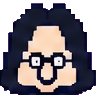
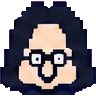
fix(sprites): 형섭 입선을 제거하고 걷기 정렬과 재생을 교정
원본 입선 261픽셀만 피부로 복원하고 방향별 공통 크롭과 샘플링 격자로 머리 흔들림 및 신발 잘림을 방지한다. 형섭 좌우 프레임을 중립과 보폭이 번갈아 오도록 재생하고, 속도 전환의 위상 및 충돌 후 실제 이동 여부를 보존한다.

Constraint: 코·안경·턱·기존 색감과 캐릭터 배율 및 이동 속도 보존
Confidence: high
Scope-risk: moderate
Not-tested: 구형 smoke.mjs의 삭제된 merchant/house 참조는 기존 문제로 유지

diff --git a/src/world/world.js b/src/world/world.js
@@ -112,9 +112,10 @@ export function characterSprite(paletteName, override = null) {
     set.fw = fw; set.fh = fh; set.px = RENDER_SCALE;   // assets/sprites 시트는 2x 해상도
     const rows = ['down', 'up', 'left', 'right'];
     rows.forEach((dir, r) => {
+      const order = CHARACTERS[paletteName]?.walkFrameOrder?.[dir] || [0, 1, 2, 3];
       for (let f = 0; f < 4; f++) {
         const c = makeCanvas(fw, fh);
-        c.getContext('2d').drawImage(override, f * fw, r * fh, fw, fh, 0, 0, fw, fh);
+        c.getContext('2d').drawImage(override, order[f] * fw, r * fh, fw, fh, 0, 0, fw, fh);
         set[dir].push(c);
       }
     });
@@ -173,14 +174,14 @@ export class Character extends Entity {
     super(def, game);
     this.sprite = characterSprite(def.sprite || 'hero', game.spriteOverrides[def.sprite]);
     this.frame = 0;
-    this.animTime = 0;
+    this.animPhase = 0;
     this.moving = false;
     this.speed = def.speed ?? TILE * 3.8;
   }
   animate(dt, fps = 8) {
-    if (!this.moving) { this.frame = 0; this.animTime = 0; return; }
-    this.animTime += dt;
-    this.frame = Math.floor(this.animTime * fps) % 4;
+    if (!this.moving) { this.frame = 0; this.animPhase = 0; return; }
+    this.animPhase += dt * fps;
+    this.frame = Math.floor(this.animPhase) % 4;
   }
   /** 축별 이동 + 타일/엔티티 충돌 */
   moveBy(dx, dy) {
@@ -230,9 +231,9 @@ export class Player extends Character {
     this.lastMove = 0;
   }
   update(dt, input) {
+    const startX = this.x, startY = this.y;
     const a = input.axis();
-    this.moving = a.x !== 0 || a.y !== 0;
-    if (this.moving) {
+    if (a.x !== 0 || a.y !== 0) {
       if (a.x) this.facing = a.x > 0 ? 'right' : 'left';
       if (a.y && !a.x) this.facing = a.y > 0 ? 'down' : 'up';
       const run = input.down('cancel') ? this.slowMul : 1;
@@ -241,6 +242,7 @@ export class Player extends Character {
       // 소수점 누적 이동 (도트 튐 방지: 렌더 시 round)
       this.moveBy((a.x / len) * step, (a.y / len) * step);
     }
+    this.moving = this.x !== startX || this.y !== startY;
     this.animate(dt, input.down('cancel') ? 8 : 12);
 
     // 밟는 트리거
@@ -269,6 +271,7 @@ export class NPC extends Character {
   }
   update(dt) {
     if (this.game.dialogue.running) { this.moving = false; this.animate(dt); return; }
+    const startX = this.x, startY = this.y;
     if (this.wander > 0) {
       this.wanderTimer -= dt;
       if (this.wanderTimer <= 0) {
@@ -287,6 +290,7 @@ export class NPC extends Character {
         else { this.moveBy(this.dir.x * sp * dt, this.dir.y * sp * dt); }
       }
     }
+    this.moving = this.x !== startX || this.y !== startY;
     this.animate(dt, 6);
   }
   interact(player) {

diff --git a/src/data/characters.js b/src/data/characters.js
@@ -5,7 +5,8 @@
 // portraitThreshold: 대화창 초상화(흰/검 2톤 변환, gfx.monoPortrait)에서 이 밝기 미만을 검정으로. 기본 0.38.
 // ─────────────────────────────────────────────────────────────
 export const CHARACTERS = {
-  hyungsub:  { name: '형섭', voice: 'narrator', palette: 'hero', self: true },   // 주인공 = 나 자신: 대사는 이름/초상화 없이 나레이션처럼
+  hyungsub:  { name: '형섭', voice: 'narrator', palette: 'hero', self: true,
+    walkFrameOrder: { left: [0, 1, 3, 2], right: [0, 1, 3, 2] } },
   gyeongsub: { name: '경섭', voice: 'gyeongsub', palette: 'guard' },
   ppaman:    { name: '빠맨', voice: 'ppaman',  palette: 'cat', portraitThreshold: 0.3 },     // 파란 털(밝기 0.45)은 흰색으로 남겨야 해서 낮게
   junhee:    { name: '쥰희', voice: 'junhee',  palette: 'merchant', portraitThreshold: 0.6 },   // 돼지. 분홍 피부(0.85)만 흰색, 이목구비(≤0.6)는 검정. 웃음소리 sfx: laugh_junhee

diff --git a/tests/sprites/test_slice_sheet.py b/tests/sprites/test_slice_sheet.py
@@ -8,7 +8,18 @@ from PIL import Image
 
 ROOT = Path(__file__).resolve().parents[2]
 sys.path.insert(0, str(ROOT))
-from tools.sprites.slice_sheet import EDGE_TRIM, detect_grid, key_cell, make_portrait, process_cell
+from tools.sprites.slice_sheet import align_frames, detect_grid, key_cell, make_portrait, process_cell
+
+
+def test_background_key_preserves_character_pixels_at_cell_bottom_edge() -> None:
+    cell = np.full((80, 80, 3), (180, 120, 210), dtype=np.int64)
+    cell[20:80, 20:60] = (20, 20, 30)
+
+    result = np.asarray(key_cell(cell))
+
+    assert result.shape[:2] == cell.shape[:2]
+    assert np.all(result[-4:, 20:60, 3] == 255)
+    assert np.array_equal(result[-4:, 20:60, :3], cell[-4:, 20:60])
 
 
 def test_background_key_preserves_outline_and_enclosed_background_color() -> None:
@@ -17,7 +28,7 @@ def test_background_key_preserves_outline_and_enclosed_background_color() -> Non
     cell[22:58, 22:58] = (180, 120, 210)
     result = np.asarray(key_cell(cell))
     assert result[0, 0, 3] == 0
-    assert np.all(result[16:56, 16:56, 3] == 255)
+    assert np.all(result[20:60, 20:60, 3] == 255)
     assert tuple(result[30, 30, :3]) == (180, 120, 210)
 
 
@@ -29,9 +40,8 @@ def test_source_front_frame_keeps_dark_outline(column: int) -> None:
     x0, x1 = columns[column]
     y0, y1 = rows[0]
     cell = source[y0:y1, x0:x1]
-    trimmed = cell[EDGE_TRIM:-EDGE_TRIM, EDGE_TRIM:-EDGE_TRIM]
     result = np.asarray(key_cell(cell))
-    assert np.all(result[..., 3][trimmed.max(axis=2) < 60] == 255)
+    assert np.all(result[..., 3][cell.max(axis=2) < 60] == 255)
 
 
 def test_import_resampling_keeps_original_colors() -> None:
@@ -40,18 +50,47 @@ def test_import_resampling_keeps_original_colors() -> None:
     cell[22:58, 22:58] = (255, 230, 205)
     cell[23:57:2, 23:57:2] = (45, 70, 95)
     colors = set(map(tuple, cell.reshape(-1, 3)))
-    for image in (process_cell(cell, 32, 32, 0.5), make_portrait(cell)):
+    crop = align_frames([key_cell(cell)], 2)[0]
+    for image in (process_cell(crop, (32, 32), 0.5), make_portrait(cell)):
         pixels = np.asarray(image)
         assert set(map(tuple, pixels[..., :3][pixels[..., 3] == 255])) <= colors
 
 
 def test_background_key_removes_purple_fringe_without_eroding_blue_outline() -> None:
     cell = np.full((80, 80, 3), (191, 131, 248), dtype=np.int64)
+    cell[0, 0] = (140, 85, 159)
     cell[19:61, 19:61] = (150, 100, 210)
     cell[20:60, 20:60] = (60, 70, 170)
     result = np.asarray(key_cell(cell))
-    assert result[15, 20, 3] == 0
-    assert np.all(result[16:56, 16:56, 3] == 255)
+    assert result[0, 0, 3] == 0
+    assert result[19, 24, 3] == 0
+    assert np.all(result[20:60, 20:60, 3] == 255)
+
+
+def test_cli_hyungsub_left_walk_preserves_constant_source_head_height(tmp_path: Path) -> None:
+    source_path = ROOT / 'assets/source/sheet_hyungsub_gyeongsub_ppaman.png'
+    with Image.open(source_path) as image:
+        source = np.asarray(image.convert('RGB')).astype(np.int64)
+    columns, rows = detect_grid(source)
+    y0, y1 = rows[1]
+    source_tops: list[int] = []
+    for x0, x1 in columns[:4]:
+        bounds = key_cell(source[y0:y1, x0:x1]).getbbox()
+        assert bounds is not None
+        source_tops.append(bounds[1])
+    assert source_tops == [26, 26, 26, 26]
+
+    _ = subprocess.run([sys.executable, str(ROOT / 'tools/sprites/slice_sheet.py'), str(source_path),
+                        'hyungsub', 'gyeongsub', 'ppaman'], cwd=tmp_path, capture_output=True, check=True)
+
+    with Image.open(tmp_path / 'assets/sprites/hyungsub.png') as sheet:
+        fw, fh = sheet.width // 4, sheet.height // 4
+        output_tops: list[int] = []
+        for frame in range(4):
+            bounds = sheet.crop((frame * fw, 2 * fh, (frame + 1) * fw, 3 * fh)).getbbox()
+            assert bounds is not None
+            output_tops.append(bounds[1])
+    assert len(set(output_tops)) == 1, f'fixed source head height became {output_tops}'
 
 
 @pytest.mark.parametrize(('source_name', 'ids'), [
@@ -73,14 +112,15 @@ def test_cli_source_sheets_produce_complete_engine_frames(tmp_path: Path, source
             fw, fh = sheet.width // 4, sheet.height // 4
             for output_row, input_row in enumerate((0, 3, 1, 2)):
                 frames = []
+                y0, y1 = rows[input_row]
+                cells = [source[y0:y1, x0:x1] for x0, x1 in columns[index * 4:(index + 1) * 4]]
+                downsample = max(1, round((rows[0][1] - rows[0][0]) / 100))
+                crops = align_frames([key_cell(cell) for cell in cells], downsample)
                 for frame in range(4):
                     actual = sheet.crop((frame * fw, output_row * fh, (frame + 1) * fw, (output_row + 1) * fh))
                     assert actual.getbbox() is not None
-                    x0, x1 = columns[index * 4 + frame]
-                    y0, y1 = rows[input_row]
-                    cell = source[y0:y1, x0:x1]
-                    scale = 1 / max(1, round((rows[0][1] - rows[0][0]) / 100))
-                    expected = process_cell(cell, fw, fh, scale)
+                    cell = cells[frame]
+                    expected = process_cell(crops[frame], (fw, fh), 1 / downsample)
                     assert actual.tobytes() == expected.tobytes()
                     pixels = np.asarray(actual)
                     assert set(np.unique(pixels[..., 3])) <= {0, 255}

diff --git a/tools/sprites/slice_sheet.py b/tools/sprites/slice_sheet.py
@@ -38,17 +38,13 @@ def detect_grid(im):
     return cols, rows
 
 
-EDGE_TRIM = 4            # 셀 테두리 잔선 제거(px)
-
-
 def key_cell(cell: npt.NDArray[np.int64]) -> Image.Image:
     """가장자리에 연결된 배경만 제거하고 내부 색과 외곽선은 보존한다."""
-    cell = cell[EDGE_TRIM:-EDGE_TRIM, EDGE_TRIM:-EDGE_TRIM]
     edge = np.concatenate([cell[2:14, 2:14].reshape(-1, 3), cell[-14:-2, 2:14].reshape(-1, 3),
                            cell[2:14, -14:-2].reshape(-1, 3), cell[-14:-2, -14:-2].reshape(-1, 3)])
     bg = np.median(edge, 0)
     d = np.abs(cell - bg).sum(2)
-    purple_fringe = (cell[..., 0] > cell[..., 1] + 20) & (cell[..., 2] > cell[..., 0] + 20) & (d <= 240)
+    purple_fringe = (cell[..., 0] > cell[..., 1] + 20) & (cell[..., 2] > cell[..., 0] + 10) & (d <= 240)
     background = (d <= 90) | purple_fringe
     height, width = background.shape
     alpha = np.ones((height, width), dtype=np.bool_)
@@ -84,22 +80,26 @@ def quantize_to_palette(img, palette_img, n=None):
     return Image.fromarray(out, 'RGBA')
 
 
-def char_crop(cell_rgb):
-    rgba = key_cell(cell_rgb)
-    a = np.array(rgba)[..., 3]
-    ys, xs = np.where(a > 127)
-    if len(xs) == 0: return None
-    return rgba.crop((int(xs.min()), int(ys.min()), int(xs.max()) + 1, int(ys.max()) + 1))
+def align_frames(frames: list[Image.Image], downsample: int) -> list[Image.Image]:
+    """방향별 공통 영역을 정수 축소 격자에 맞춰 잘라 프레임 기준점을 보존한다."""
+    bounds = [box for frame in frames if (box := frame.getbbox()) is not None]
+    if not bounds:
+        return [Image.new('RGBA', (downsample, downsample)) for _ in frames]
+    left = min(box[0] for box in bounds) // downsample * downsample
+    top = min(box[1] for box in bounds) // downsample * downsample
+    right = (max(box[2] for box in bounds) + downsample - 1) // downsample * downsample
+    bottom = (max(box[3] for box in bounds) + downsample - 1) // downsample * downsample
+    return [frame.crop((left, top, right, bottom)) for frame in frames]
 
 
-def process_cell(cell_rgb, FW, FH, scale):
-    crop = char_crop(cell_rgb)
-    if crop is None: return Image.new('RGBA', (FW, FH))
+def process_cell(crop: Image.Image, frame_size: tuple[int, int], scale: float) -> Image.Image:
+    """공통 영역에서 자른 RGBA 프레임을 같은 격자로 축소하고 하단 중앙에 놓는다."""
+    fw, fh = frame_size
     w = max(1, round(crop.width * scale)); h = max(1, round(crop.height * scale))
     small = crop.resize((w, h), Image.Resampling.NEAREST)  # 원본 도트 색을 평균내지 않는다
     a = np.array(small); a[..., 3] = np.where(a[..., 3] > 127, 255, 0); small = Image.fromarray(a, 'RGBA')
-    frame = Image.new('RGBA', (FW, FH))
-    frame.paste(small, ((FW - w) // 2, FH - h), small)
+    frame = Image.new('RGBA', frame_size)
+    frame.paste(small, ((fw - w) // 2, fh - h), small)
     return frame
 
 
@@ -118,7 +118,7 @@ def make_portrait(cell_rgb, size=96, head_ratio=0.56):
     return out
 
 
-def main():
+def main() -> None:
     src, ids = sys.argv[1], sys.argv[2:]
     img = Image.open(src).convert('RGB')
     im = np.array(img).astype(int)
@@ -128,24 +128,26 @@ def main():
     print(f'grid: {len(cols)} cols x {len(rows)} rows')
     import os; os.makedirs('assets/sprites', exist_ok=True); os.makedirs('assets/portraits', exist_ok=True)
     for ci, cid in enumerate(ids):
-        # 캐릭터 전체 16셀의 최대 높이 기준으로 스케일 하나를 정한다 (프레임끼리 크기 튐 방지)
-        crops = {}
+        cell_h = rows[0][1] - rows[0][0]
+        downsample = max(1, round(cell_h / CELL_TARGET_H))
+        scale = 1.0 / downsample
+        # 방향별 네 프레임은 같은 원본 영역과 축소 격자를 쓰고, 출력 크기는 16셀 전체에 맞춘다.
+        crops: dict[int, list[Image.Image]] = {}
         for ri in range(4):
+            frames: list[Image.Image] = []
             for f in range(4):
                 x0, x1 = cols[ci * 4 + f]; y0, y1 = rows[ri]
-                crops[(ri, f)] = char_crop(im[y0:y1, x0:x1])
-        cell_h = rows[0][1] - rows[0][0]
-        scale = 1.0 / max(1, round(cell_h / CELL_TARGET_H))   # 기존 엔진용 크기를 유지하며 최근접 변환
-        max_h = max(round(c.height * scale) for c in crops.values() if c is not None)
-        max_w = max(round(c.width * scale) for c in crops.values() if c is not None)
+                frames.append(key_cell(im[y0:y1, x0:x1]))
+            crops[ri] = align_frames(frames, downsample)
+        max_h = max(round(c.height * scale) for row in crops.values() for c in row)
+        max_w = max(round(c.width * scale) for row in crops.values() for c in row)
         FW = max(MIN_FW, max_w + 2 + (max_w % 2))
         FH = max_h + 2 + (max_h % 2)
         sheet = Image.new('RGBA', (FW * 4, FH * 4))
         for oi, dirname in enumerate(OUT_ROWS):
             ri = ROW_MAP[dirname]
             for f in range(4):
-                x0, x1 = cols[ci * 4 + f]; y0, y1 = rows[ri]
-                frame = process_cell(im[y0:y1, x0:x1], FW, FH, scale)
+                frame = process_cell(crops[ri][f], (FW, FH), scale)
                 sheet.paste(frame, (f * FW, oi * FH))
         out = f'assets/sprites/{cid}.png'
         sheet.save(out)

diff --git a/tests/sprites/test_hyungsub_mouth.py b/tests/sprites/test_hyungsub_mouth.py
@@ -1,0 +1,20 @@
+import json
+from pathlib import Path
+
+import numpy as np
+from PIL import Image
+
+ROOT = Path(__file__).resolve().parents[2]
+
+
+def test_hyungsub_source_mouth_strokes_are_replaced_with_adjacent_skin() -> None:
+    with (ROOT / 'assets/source/hyungsub-mouth-retouch.json').open() as file:
+        retouch = json.load(file)
+    with Image.open(ROOT / 'assets/source' / retouch['source']) as image:
+        pixels = np.asarray(image.convert('RGB'), dtype=np.uint8)
+        for patch in retouch['patches']:
+            for y, x0, x1 in patch['rows']:
+                for x in range(x0, x1):
+                    color = pixels[y, x]
+                    np.testing.assert_array_equal(color, pixels[y, x + patch['sampleOffsetX']])
+                    assert color[0] > 220 and color[1] > 160 and color[2] > 130

diff --git a/docs/STATE.md b/docs/STATE.md
@@ -28,8 +28,10 @@
 - 에셋은 **그대로**: 원본 시트를 보존하고 게임용 추출 이후 추가 축소/색 양자화를 하지 않는다. 추출 시에도 외곽선 침식·색 평균 금지. 합성 목소리는 싫어함 → 유튜브/게임 원본 소리 사용.
 - 델타룬 이미지를 통째로 가져오지 말고 **같은 퀄리티로 직접 그린** 타일/소품으로 맵 구성 (`tools/art/`).
 - 형섭 대사는 나레이션처럼(이름·초상화 없음, narrator 목소리).
+- **형섭 그림에는 입이 없음**: 2026-09-09 사용자가 직접 픽셀 수정을 승인해 옆모습에 남은 입선 261픽셀만 피부로 복원했다. 원본 수정 범위는 `assets/source/hyungsub-mouth-retouch.json`. 코·안경·턱·경섭의 입은 유지. 입이 남은 이전 생성 초안을 재사용하지 않는다.
 - **대화창 초상화는 언더테일처럼 흰/검 2톤 도트**(2026-09-09 확정). 컬러 `assets/portraits/*.png` 를 런타임에 `gfx.monoPortrait` 가 변환(96→48 축소, 어두운 픽셀=검정, 실루엣 가장자리는 흰 선). 캐릭터별 문턱은 `src/data/characters.js portraitThreshold`(빠맨 0.3, 쥰희 0.6, 기본 0.38). 새 캐릭터 초상화가 뭉개지면 이 값만 조정.
 - 캐릭터 배율 `CHAR_SCALE=1.43`(world.js, 2026-09-09 +10%). 기본 이동 = 달리기, X/Shift = 천천히. C 확인, X 취소, Esc 타이틀, V 메뉴, T(타이틀) 테스트룸, F1 디버그(오디오 상태 포함).
+- 걷기 보정: 방향별 4프레임을 공통 영역/같은 샘플링 격자로 추출해 머리 흔들림을 막고, 4px 테두리 절삭으로 잘렸던 신발 끝을 보존한다. 형섭 좌우 재생만 `walkFrameOrder: [0,1,3,2]`. `Character.animPhase`로 속도 전환 시 보행 위상을 유지하며, Player/NPC는 충돌 후 실제 이동한 경우만 걷는다. 기존 이동 속도와 `CHAR_SCALE`은 변경하지 않았다.
 - 대화창 4줄·여백 넉넉히. 말풍선/하단 가이드 UI 없음. 대화창 열림/닫힘 효과음 없음(언더테일 동일). 나레이션 = 언더테일 원본 `snd_txt1` 원본 길이 그대로, 글자 33ms, 블립 최소 간격 0.06s(2026-09-09 '겹쳐 들린다' 피드백 → `VOICES.narrator.minGap`).
 - 트리거/문 무결성 규칙은 `.claude/skills/map/SKILL.md` 체크리스트 + `tests/unit/maps.test.mjs` 가 강제(재진입 1회, 쿨다운, 문 핑퐁, 스폰 위치, 영역 겹침).
 - 컷신 중 맵이 새면 안 됨 → `{curtain:'black'|'white'|null}` 로 막는다. `{bgm:null, fadeOut:n}` (fade 아님).
@@ -68,6 +70,8 @@
 - 검증 스크립트: `tests/playtest/house.mjs` (방→복도→거실 전 동선·상호작용·재진입 체크). 맵 JSON `stage` 필드는 위 '상태 시스템' 참고.
 
 ## 검증 방법
+입·걷기 보정: `tests/sprites/test_hyungsub_mouth.py`는 입선 영역의 피부 복원을, `test_slice_sheet.py`는 가장자리 보존과 실제 시트 머리 기준점 정렬을 검사한다. `tests/unit/animation.test.mjs`와 `sprite-order.test.mjs`는 속도 전환·벽 충돌·프레임 순서를 검사한다. `sprites.mjs`는 현재 48×48 흑백 초상화에 맞춰 PNG 응답을 기다리고, 4명 모두 이동/속도 전환/벽에서 멈춤/대화창을 확인한다.
+
 스프라이트: `uv run --with pillow --with numpy --with pytest pytest tests/sprites -q` (배경·외곽선·원본 색·프레임 계약 회귀). `node tests/playtest/sprites.mjs` (서버 8765, 형섭·경섭·빠맨·쥰희 4방향×4프레임, 대화창 인물 연결, PNG 로딩). 원본 3인 시트 왼쪽부터 `hyungsub/gyeongsub/ppaman`, 돼지 별도 시트는 `junhee`다. 재추출 명령은 README의 '캐릭터 시트 재추출' 참고.
 
 2026-09-09 재추출 검증: 스프라이트 회귀 8개·기존 유닛 32개 통과, 실제 브라우저에서 4명 이동/대화창 확인. 구형 `smoke.mjs`는 현재 없는 `merchant` 스크립트와 `house` 맵을 참조해 런타임 오류가 난다(스프라이트 변경과 무관한 기존 테스트 문제). 스프라이트 확인은 `sprites.mjs`, 집 동선은 `house.mjs` 사용.

diff --git a/README.md b/README.md
@@ -127,6 +127,12 @@ node tests/playtest/sprites.mjs  # 서버 8765, playwright-core 필요. SHOT_DIR
 
 배경은 셀 가장자리에 연결된 배경색만 투명화한다. 외곽선 침식·색 평균·팔레트 양자화를 하지 않는다. 원본 파일은 보존하고, 기존 엔진용 크기 변환에는 최근접 픽셀만 사용한다. 초상화도 같은 정면 프레임에서 추출하며 형섭의 대사는 기존처럼 초상화 없는 나레이션이다.
 
+걷기 프레임은 **같은 방향의 4장을 공통 영역으로 자르고 같은 축소 격자에 정렬**한다. 한 장씩 몸에 딱 맞춰 자른 뒤 발을 바닥에 붙이면, 들린 발 때문에 머리까지 위아래로 흔들린다. 셀 테두리를 일괄 삭제하는 처리도 신발을 자르므로 금지한다.
+
+형섭 옆모습 원본은 중립–발 뻗음–발 뻗음–중립 순서라, `src/data/characters.js`의 `walkFrameOrder`가 좌우만 `[0, 1, 3, 2]`로 재생한다(0부터 시작). PNG 열은 원본 그대로이며 다른 방향·캐릭터에는 이 순서를 무조건 적용하지 않는다. 게임용 PNG를 다른 도구에 줄 때는 4열×4행 및 이 재생 설정도 함께 전달한다.
+
+형섭은 **모든 방향에서 입 없이 코만** 남긴다. 원본의 남은 옆모습 입선은 직접 픽셀 편집으로 제거했으며 `assets/source/hyungsub-mouth-retouch.json`에 범위를 기록했다. 경섭의 입은 제거 대상이 아니다.
+
 ## 맵 에디터 (델타룬 에셋으로 맵 그리기)
 
 ```bash
